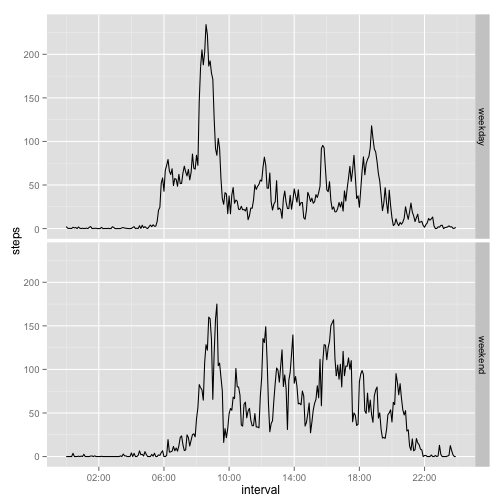
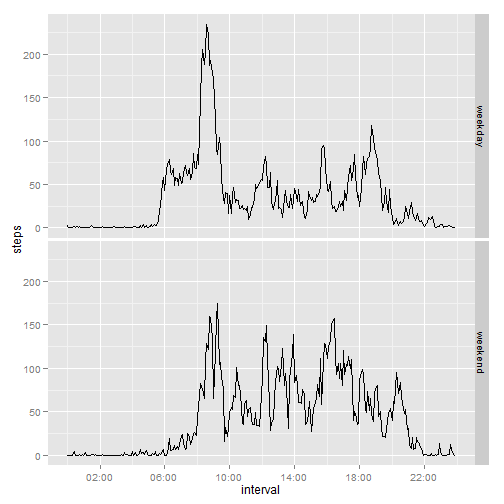
Upgraded knitr to version 1.6.
Resulting output much more well formatted, making the inline code much
easier to read.

diff --git a/PA1_template.html b/PA1_template.html
@@ -196,17 +196,17 @@ Individual analyses for each of the required plots are performed in that plot&#3
 
 <pre><code class="r">library(lubridate)
 unzip(&quot;activity.zip&quot;)
-activity &lt;- read.csv(&quot;activity.csv&quot;, header = T, sep = &quot;,&quot;)
-activity$date &lt;- ymd(activity$date)
-activity$interval &lt;- as.POSIXct(strptime(sprintf(&quot;%04d&quot;, activity$interval), 
-    format = &quot;%H%M&quot;))
+activity&lt;-read.csv(&quot;activity.csv&quot;,header=T,sep=&quot;,&quot;)
+activity$date&lt;-ymd(activity$date)
+activity$interval&lt;-
+    as.POSIXct(strptime(sprintf(&quot;%04d&quot;,activity$interval),format=&quot;%H%M&quot;))
 </code></pre>
 
 <h2>What is mean total number of steps taken per day?</h2>
 
 <p>Next we create a data frame <em>daybyday</em> aggregating the total sum of steps for each day.</p>
 
-<pre><code class="r">daybyday &lt;- aggregate(steps ~ date, data = activity, sum)  #note the default for aggregate is to ignore NA values
+<pre><code class="r">daybyday&lt;-aggregate(steps~date,data=activity,sum) #note the default for aggregate is to ignore NA values
 </code></pre>
 
 <p>and plot a histogram of the resulting data  </p>
@@ -216,10 +216,12 @@ activity$interval &lt;- as.POSIXct(strptime(sprintf(&quot;%04d&quot;, activity$i
 <li>add a title showing mean, median and day counts</li>
 </ul>
 
-<pre><code class="r">maintitle &lt;- paste(&quot;Histogram of steps per day\n&quot;, &quot;n=&quot;, nrow(daybyday), &quot; days&quot;, 
-    &quot;; mean=&quot;, round(mean(daybyday$steps)), &quot;; median=&quot;, round(median(daybyday$steps)), 
-    sep = &quot;&quot;)
-hist(daybyday$steps, breaks = 10, main = maintitle, xlab = &quot;Number of steps&quot;)
+<pre><code class="r">maintitle&lt;-paste(&quot;Histogram of steps per day\n&quot;,
+                 &quot;n=&quot;,nrow(daybyday),&quot; days&quot;,
+                 &quot;; mean=&quot;,round(mean(daybyday$steps)),
+                 &quot;; median=&quot;,round(median(daybyday$steps)),
+                 sep=&quot;&quot;)
+hist(daybyday$steps,breaks=10,main=maintitle,xlab=&quot;Number of steps&quot;)
 </code></pre>
 
[1 lines of base64/hex data omitted]
@@ -228,12 +230,13 @@ hist(daybyday$steps, breaks = 10, main = maintitle, xlab = &quot;Number of steps
 
 <p>Here instead of aggregating sums by date, we aggregate means by interval across all dates and plot the data. Then we find the interval which has the maximum average number of steps and annotate the plot with that point. This gives us a picture of what an average day looks like for this test subject.</p>
 
-<pre><code class="r">averageday &lt;- aggregate(steps ~ interval, data = activity, mean)
-with(averageday, plot(steps ~ interval, type = &quot;l&quot;))
-max_steps &lt;- averageday[which.max(averageday$steps), ]
-points(max_steps$interval, max_steps$steps)
-text(max_steps$interval, max_steps$steps, pos = 4, paste(&quot;Maximum&quot;, round(max_steps$steps), 
-    &quot;Steps at&quot;, strftime(max_steps$interval, format = &quot;%H:%M&quot;)))
+<pre><code class="r">averageday&lt;-aggregate(steps~interval,data=activity,mean)
+with(averageday,plot(steps~interval,type=&quot;l&quot;))
+max_steps&lt;-averageday[which.max(averageday$steps),]
+points(max_steps$interval,max_steps$steps)
+text(max_steps$interval,max_steps$steps,pos=4,
+     paste(&quot;Maximum&quot;,round(max_steps$steps),&quot;Steps at&quot;,
+           strftime(max_steps$interval, format=&quot;%H:%M&quot;)))
 </code></pre>
 
[1 lines of base64/hex data omitted]
@@ -242,8 +245,8 @@ text(max_steps$interval, max_steps$steps, pos = 4, paste(&quot;Maximum&quot;, ro
 
 <p>How many NAs are there total?</p>
 
-<pre><code class="r">narows &lt;- which(is.na(activity$steps))
-number.nas &lt;- length(narows)
+<pre><code class="r">narows&lt;-which(is.na(activity$steps))
+number.nas&lt;-length(narows)
 </code></pre>
 
 <p>There are 2304 rows containing steps with NA values. We will replace these rows with mean values for the given interval.  </p>
@@ -252,12 +255,11 @@ number.nas &lt;- length(narows)
 Next we copy the NA-ridden steps variable into a new variable in the analysis dataframe, and replace all the rows containing NA step values with imputed values.<br/>
 Finally we create a new dataframe analagous to daybyday aggregating the sum activity per day.</p>
 
-<pre><code class="r">imputers &lt;- lapply(narows, function(x) {
-    averageday$steps[which(averageday$interval == activity$interval[x])]
-})
-activity$imputed.steps &lt;- activity$steps
-activity$imputed.steps[narows] &lt;- simplify2array(imputers)
-daybyday.i &lt;- aggregate(imputed.steps ~ date, data = activity, sum)
+<pre><code class="r">imputers&lt;-lapply(narows,function(x) {
+        averageday$steps[which(averageday$interval==activity$interval[x])]})
+activity$imputed.steps&lt;-activity$steps
+activity$imputed.steps[narows]&lt;-simplify2array(imputers)
+daybyday.i&lt;-aggregate(imputed.steps~date,data=activity,sum)
 </code></pre>
 
 <p>and plot a histogram of the resulting data  </p>
@@ -269,11 +271,12 @@ daybyday.i &lt;- aggregate(imputed.steps ~ date, data = activity, sum)
 
 <p>Note that the imputed values did not affect the overall mean, and only slightly affected the median value. The only major change is an additional 8 days included in the histogram. </p>
 
-<pre><code class="r">
-maintitle &lt;- paste(&quot;Histogram of steps per day\n&quot;, &quot;n=&quot;, nrow(daybyday.i), &quot; days&quot;, 
-    &quot;; mean=&quot;, round(mean(daybyday.i$imputed.steps)), &quot;; median=&quot;, round(median(daybyday.i$imputed.steps)), 
-    sep = &quot;&quot;)
-hist(daybyday.i$imputed.steps, breaks = 10, main = maintitle, xlab = &quot;Number of steps&quot;)
+<pre><code class="r">maintitle&lt;-paste(&quot;Histogram of steps per day\n&quot;,
+                 &quot;n=&quot;,nrow(daybyday.i),&quot; days&quot;,
+                 &quot;; mean=&quot;,round(mean(daybyday.i$imputed.steps)),
+                 &quot;; median=&quot;,round(median(daybyday.i$imputed.steps)),
+                 sep=&quot;&quot;)
+hist(daybyday.i$imputed.steps,breaks=10,main=maintitle,xlab=&quot;Number of steps&quot;)
 </code></pre>
 
[1 lines of base64/hex data omitted]
@@ -284,19 +287,20 @@ hist(daybyday.i$imputed.steps, breaks = 10, main = maintitle, xlab = &quot;Numbe
 Next we convert this list to an additional factor variable in the activity dataset which classifies each row as a weekend or weekday, assuming that weekends are Saturday and Sunday.<br/>
 Finally aggregate the mean steps across both interval and weekend/weekday status</p>
 
-<pre><code class="r">daynames &lt;- weekdays(activity$date)
-activity$daymode &lt;- as.factor(simplify2array(lapply(daynames, function(x) {
-    ifelse(x %in% c(&quot;Saturday&quot;, &quot;Sunday&quot;), &quot;weekend&quot;, &quot;weekday&quot;)
-})))
-daybyday2 &lt;- aggregate(steps ~ interval + daymode, data = activity, mean)
+<pre><code class="r">daynames&lt;-weekdays(activity$date)
+activity$daymode&lt;-as.factor(simplify2array(lapply(daynames,
+                function(x)
+                { ifelse(x %in% c(&quot;Saturday&quot;,&quot;Sunday&quot;),&quot;weekend&quot;,&quot;weekday&quot;)})))
+daybyday2&lt;-aggregate(steps~interval+daymode,data=activity,mean)
 </code></pre>
 
 <p>Finally plot the activity data versus time interval and compare weekdays to weekends. This test subject appears to get up a few hours later on weekends. They remain a little more active on weekend evenings but are obviously not hanging out in dance clubs until closing time. </p>
 
 <pre><code class="r">library(ggplot2)
-library(scales)  #date_format() from scales used for x axis labels
-ggplot(data = daybyday2, aes(x = interval, y = steps)) + geom_line() + facet_grid(daymode ~ 
-    .) + scale_x_datetime(labels = date_format(&quot;%H:%M&quot;), breaks = &quot;4 hour&quot;)
+library(scales) #date_format() from scales used for x axis labels
+ggplot(data=daybyday2,aes(x=interval,y=steps))+  
+    geom_line()+facet_grid(daymode~.)+  
+    scale_x_datetime(labels=date_format(&quot;%H:%M&quot;),breaks=&quot;4 hour&quot;)
 </code></pre>
 
[1 lines of base64/hex data omitted]

diff --git a/PA1_template.md b/PA1_template.md
@@ -15,12 +15,11 @@ Individual analyses for each of the required plots are performed in that plot's 
 ```r
 library(lubridate)
 unzip("activity.zip")
-activity <- read.csv("activity.csv", header = T, sep = ",")
-activity$date <- ymd(activity$date)
-activity$interval <- as.POSIXct(strptime(sprintf("%04d", activity$interval), 
-    format = "%H%M"))
+activity<-read.csv("activity.csv",header=T,sep=",")
+activity$date<-ymd(activity$date)
+activity$interval<-
+    as.POSIXct(strptime(sprintf("%04d",activity$interval),format="%H%M"))
 ```
-
 
 
 ## What is mean total number of steps taken per day?
@@ -28,46 +27,45 @@ Next we create a data frame *daybyday* aggregating the total sum of steps for ea
 
 
 ```r
-daybyday <- aggregate(steps ~ date, data = activity, sum)  #note the default for aggregate is to ignore NA values
+daybyday<-aggregate(steps~date,data=activity,sum) #note the default for aggregate is to ignore NA values
 ```
-
 and plot a histogram of the resulting data  
 * add breaks=10 to give a little finer granularity on the histogram  
 * add a title showing mean, median and day counts
 
 ```r
-maintitle <- paste("Histogram of steps per day\n", "n=", nrow(daybyday), " days", 
-    "; mean=", round(mean(daybyday$steps)), "; median=", round(median(daybyday$steps)), 
-    sep = "")
-hist(daybyday$steps, breaks = 10, main = maintitle, xlab = "Number of steps")
+maintitle<-paste("Histogram of steps per day\n",
+                 "n=",nrow(daybyday)," days",
+                 "; mean=",round(mean(daybyday$steps)),
+                 "; median=",round(median(daybyday$steps)),
+                 sep="")
+hist(daybyday$steps,breaks=10,main=maintitle,xlab="Number of steps")
 ```
 
 ![plot of chunk meanhistogram](figure/meanhistogram.png) 
-
 ## What is the average daily activity pattern?
 Here instead of aggregating sums by date, we aggregate means by interval across all dates and plot the data. Then we find the interval which has the maximum average number of steps and annotate the plot with that point. This gives us a picture of what an average day looks like for this test subject.
 
 ```r
-averageday <- aggregate(steps ~ interval, data = activity, mean)
-with(averageday, plot(steps ~ interval, type = "l"))
-max_steps <- averageday[which.max(averageday$steps), ]
-points(max_steps$interval, max_steps$steps)
-text(max_steps$interval, max_steps$steps, pos = 4, paste("Maximum", round(max_steps$steps), 
-    "Steps at", strftime(max_steps$interval, format = "%H:%M")))
+averageday<-aggregate(steps~interval,data=activity,mean)
+with(averageday,plot(steps~interval,type="l"))
+max_steps<-averageday[which.max(averageday$steps),]
+points(max_steps$interval,max_steps$steps)
+text(max_steps$interval,max_steps$steps,pos=4,
+     paste("Maximum",round(max_steps$steps),"Steps at",
+           strftime(max_steps$interval, format="%H:%M")))
 ```
 
 ![plot of chunk averagepattern](figure/averagepattern.png) 
-
 
 
 ## Imputing missing values
 How many NAs are there total?
 
 ```r
-narows <- which(is.na(activity$steps))
-number.nas <- length(narows)
+narows<-which(is.na(activity$steps))
+number.nas<-length(narows)
 ```
-
 There are 2304 rows containing steps with NA values. We will replace these rows with mean values for the given interval.  
 
 
@@ -77,14 +75,12 @@ Finally we create a new dataframe analagous to daybyday aggregating the sum acti
 
 
 ```r
-imputers <- lapply(narows, function(x) {
-    averageday$steps[which(averageday$interval == activity$interval[x])]
-})
-activity$imputed.steps <- activity$steps
-activity$imputed.steps[narows] <- simplify2array(imputers)
-daybyday.i <- aggregate(imputed.steps ~ date, data = activity, sum)
+imputers<-lapply(narows,function(x) {
+        averageday$steps[which(averageday$interval==activity$interval[x])]})
+activity$imputed.steps<-activity$steps
+activity$imputed.steps[narows]<-simplify2array(imputers)
+daybyday.i<-aggregate(imputed.steps~date,data=activity,sum)
 ```
-
 and plot a histogram of the resulting data  
 * add breaks=10 to give a little finer granularity on the histogram  
 * add a title showing mean, median and day counts
@@ -92,36 +88,35 @@ and plot a histogram of the resulting data
 Note that the imputed values did not affect the overall mean, and only slightly affected the median value. The only major change is an additional 8 days included in the histogram. 
 
 ```r
-
-maintitle <- paste("Histogram of steps per day\n", "n=", nrow(daybyday.i), " days", 
-    "; mean=", round(mean(daybyday.i$imputed.steps)), "; median=", round(median(daybyday.i$imputed.steps)), 
-    sep = "")
-hist(daybyday.i$imputed.steps, breaks = 10, main = maintitle, xlab = "Number of steps")
+maintitle<-paste("Histogram of steps per day\n",
+                 "n=",nrow(daybyday.i)," days",
+                 "; mean=",round(mean(daybyday.i$imputed.steps)),
+                 "; median=",round(median(daybyday.i$imputed.steps)),
+                 sep="")
+hist(daybyday.i$imputed.steps,breaks=10,main=maintitle,xlab="Number of steps")
 ```
 
 ![plot of chunk plotmean](figure/plotmean.png) 
-
 ## Are there differences in activity patterns between weekdays and weekends?
 We return to using the activity data without imputed values. First we use the weekdays function to get a character list of all the day names in the data frame.  
 Next we convert this list to an additional factor variable in the activity dataset which classifies each row as a weekend or weekday, assuming that weekends are Saturday and Sunday.  
 Finally aggregate the mean steps across both interval and weekend/weekday status
 
 ```r
-daynames <- weekdays(activity$date)
-activity$daymode <- as.factor(simplify2array(lapply(daynames, function(x) {
-    ifelse(x %in% c("Saturday", "Sunday"), "weekend", "weekday")
-})))
-daybyday2 <- aggregate(steps ~ interval + daymode, data = activity, mean)
+daynames<-weekdays(activity$date)
+activity$daymode<-as.factor(simplify2array(lapply(daynames,
+                function(x)
+                { ifelse(x %in% c("Saturday","Sunday"),"weekend","weekday")})))
+daybyday2<-aggregate(steps~interval+daymode,data=activity,mean)
 ```
-
 Finally plot the activity data versus time interval and compare weekdays to weekends. This test subject appears to get up a few hours later on weekends. They remain a little more active on weekend evenings but are obviously not hanging out in dance clubs until closing time. 
 
 ```r
 library(ggplot2)
-library(scales)  #date_format() from scales used for x axis labels
-ggplot(data = daybyday2, aes(x = interval, y = steps)) + geom_line() + facet_grid(daymode ~ 
-    .) + scale_x_datetime(labels = date_format("%H:%M"), breaks = "4 hour")
+library(scales) #date_format() from scales used for x axis labels
+ggplot(data=daybyday2,aes(x=interval,y=steps))+  
+    geom_line()+facet_grid(daymode~.)+  
+    scale_x_datetime(labels=date_format("%H:%M"),breaks="4 hour")
 ```
 
-![plot of chunk weekend.vs.weekday](figure/weekend_vs_weekday.png) 
-
+![plot of chunk weekend.vs.weekday](figure/weekend.vs.weekday.png) 
